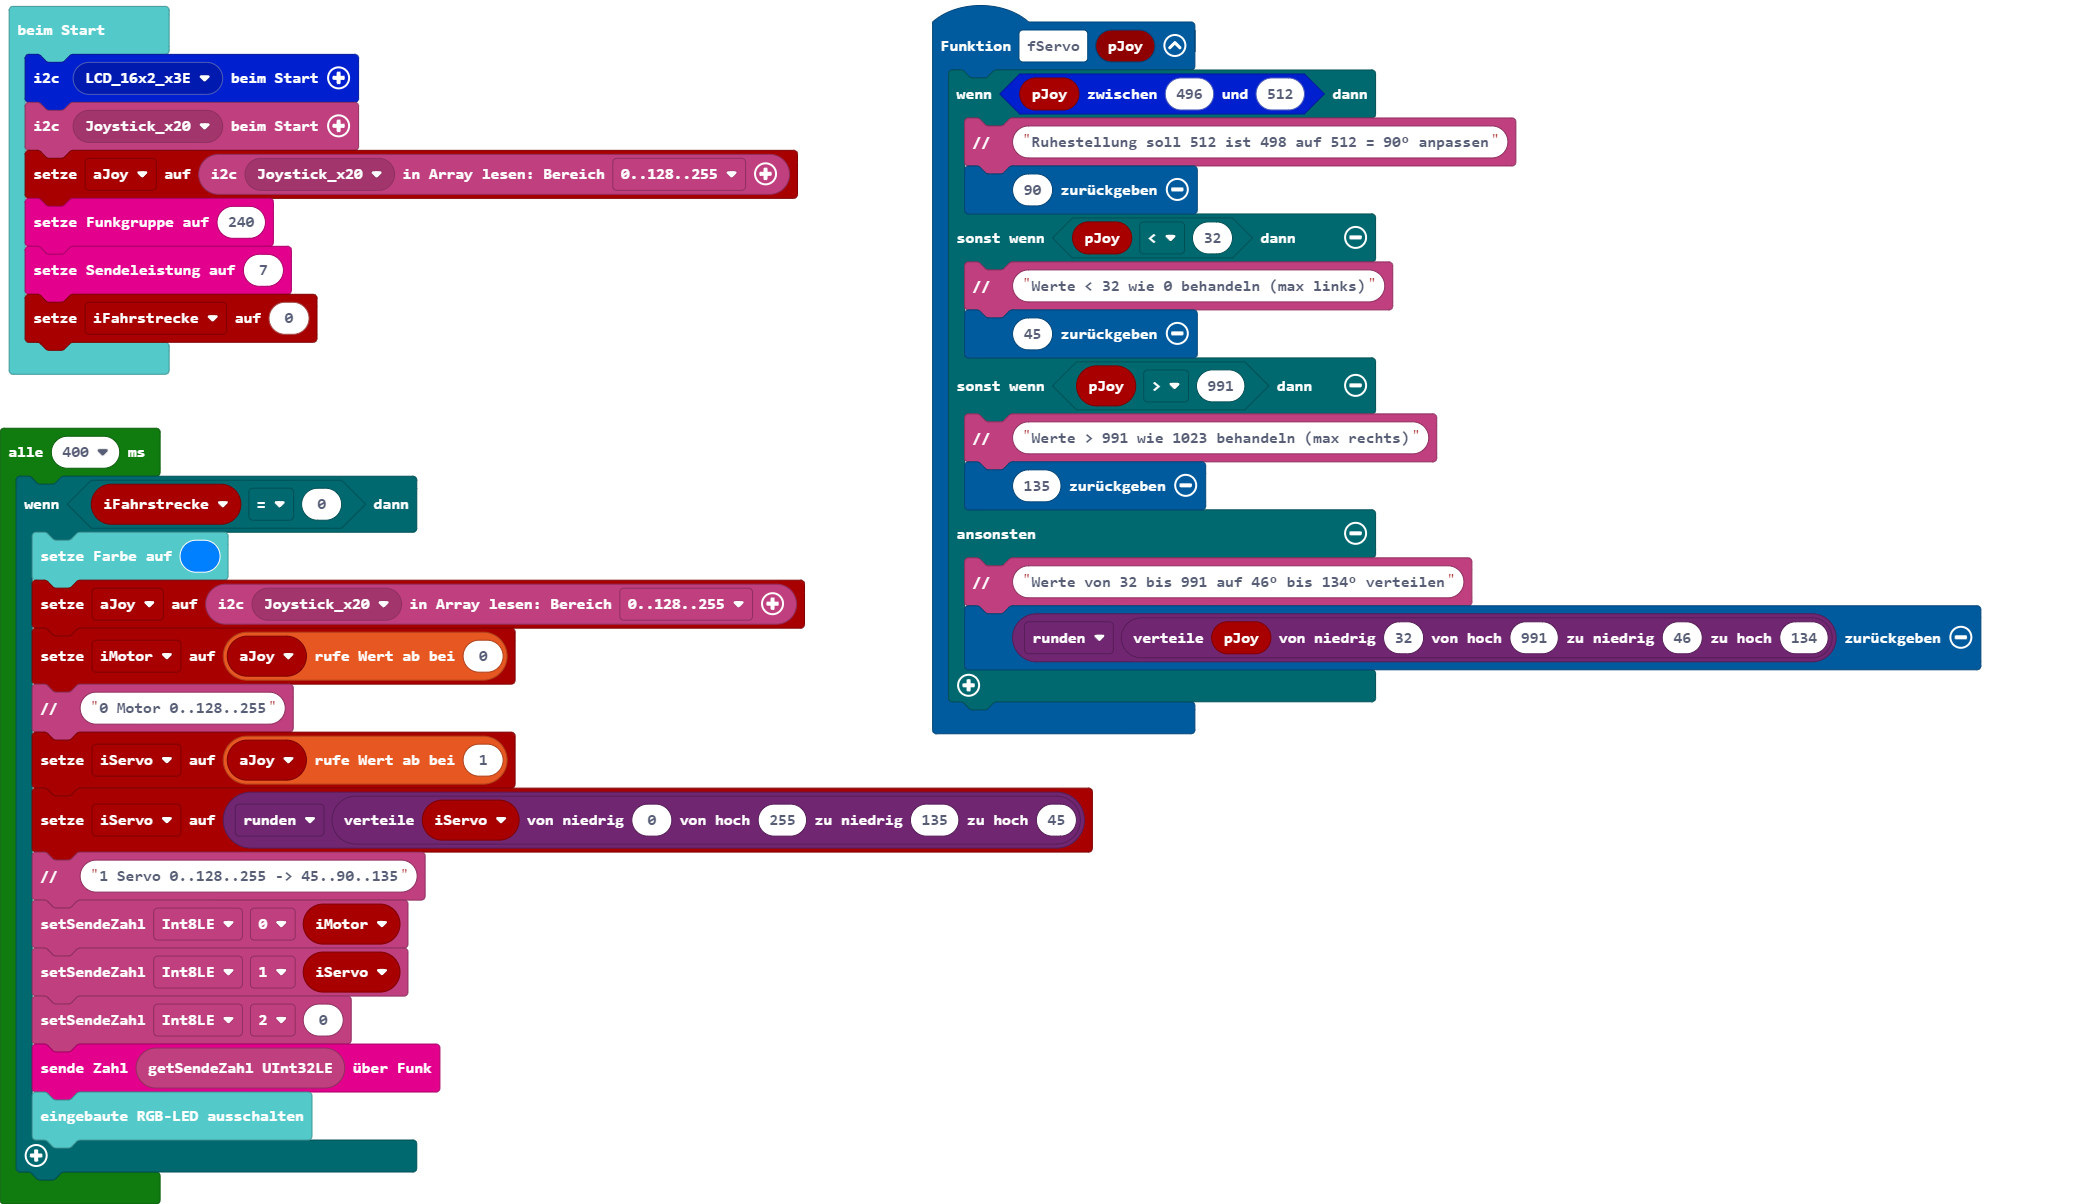
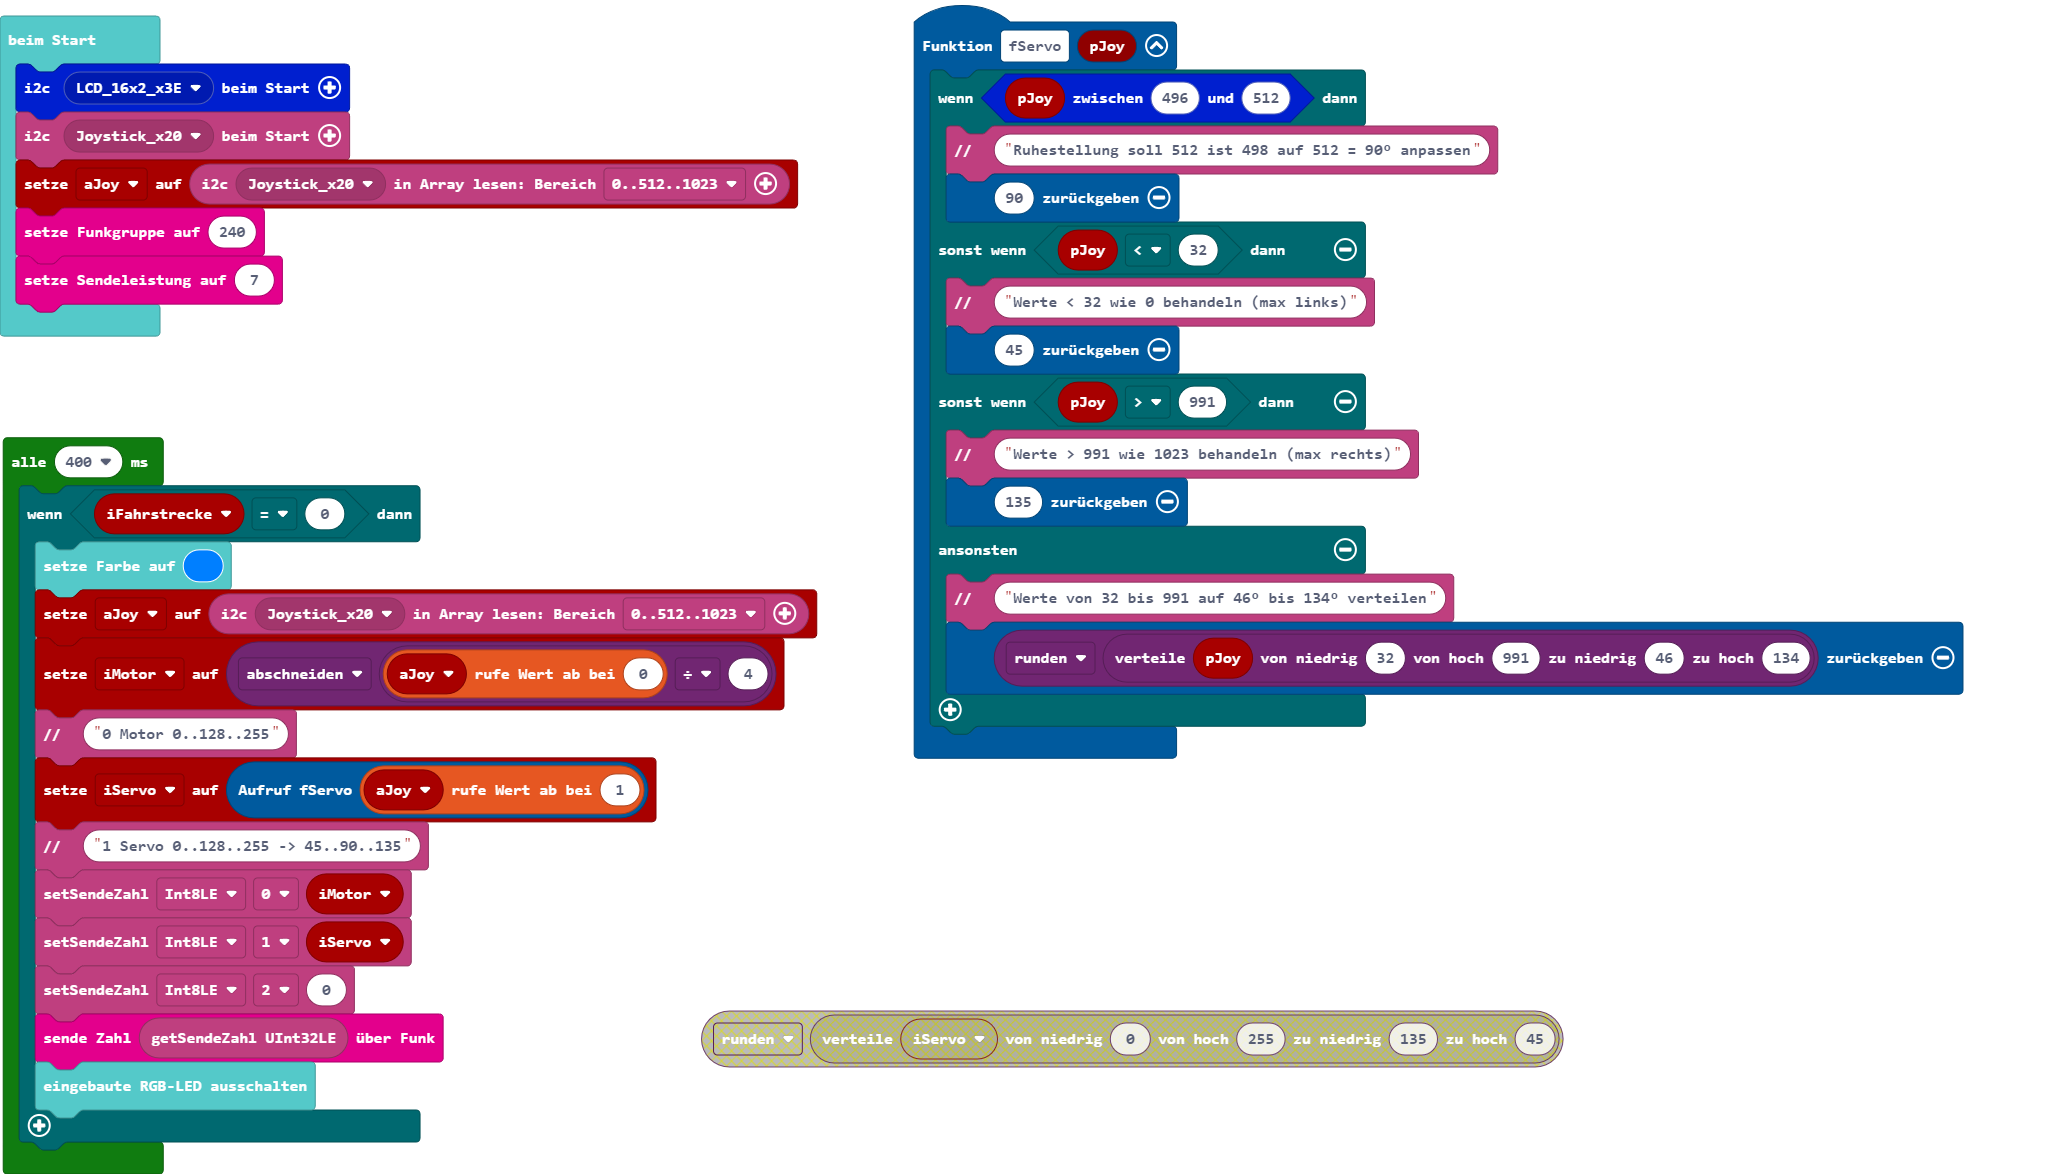
Aktualisiere main.blocks, main.ts

Changed region(s): [[0.0, 0.0, 0.9598, 0.9813], [0.3406, 0.8586, 0.7741, 0.9199], [0.1858, 0.9506, 0.2167, 0.9813]]

diff --git a/main.ts b/main.ts
@@ -17,18 +17,17 @@ let iServo = 0
 let iMotor = 0
 lcd16x2rgb.initLCD(lcd16x2rgb.lcd16x2_eADDR(lcd16x2rgb.eADDR_LCD.LCD_16x2_x3E))
 qwiicjoystick.beimStart(qwiicjoystick.qwiicjoystick_eADDR(qwiicjoystick.eADDR.Joystick_x20))
-let aJoy = qwiicjoystick.readArray(qwiicjoystick.qwiicjoystick_eADDR(qwiicjoystick.eADDR.Joystick_x20), qwiicjoystick.eBereich.B_0_255)
+let aJoy = qwiicjoystick.readArray(qwiicjoystick.qwiicjoystick_eADDR(qwiicjoystick.eADDR.Joystick_x20), qwiicjoystick.eBereich.A_0_1023)
 radio.setGroup(240)
 radio.setTransmitPower(7)
-let iFahrstrecke = 0
 loops.everyInterval(400, function () {
+    let iFahrstrecke = 0
     if (iFahrstrecke == 0) {
         basic.setLedColor(0x007fff)
-        aJoy = qwiicjoystick.readArray(qwiicjoystick.qwiicjoystick_eADDR(qwiicjoystick.eADDR.Joystick_x20), qwiicjoystick.eBereich.B_0_255)
-        iMotor = aJoy[0]
+        aJoy = qwiicjoystick.readArray(qwiicjoystick.qwiicjoystick_eADDR(qwiicjoystick.eADDR.Joystick_x20), qwiicjoystick.eBereich.A_0_1023)
+        iMotor = Math.trunc(aJoy[0] / 4)
         qwiicjoystick.comment("0 Motor 0..128..255")
-        iServo = aJoy[1]
-        iServo = Math.round(Math.map(iServo, 0, 255, 135, 45))
+        iServo = fServo(aJoy[1])
         qwiicjoystick.comment("1 Servo 0..128..255 -> 45..90..135")
         qwiicjoystick.setSendeZahl(NumberFormat.Int8LE, qwiicjoystick.eOffset.z0, iMotor)
         qwiicjoystick.setSendeZahl(NumberFormat.Int8LE, qwiicjoystick.eOffset.z1, iServo)
